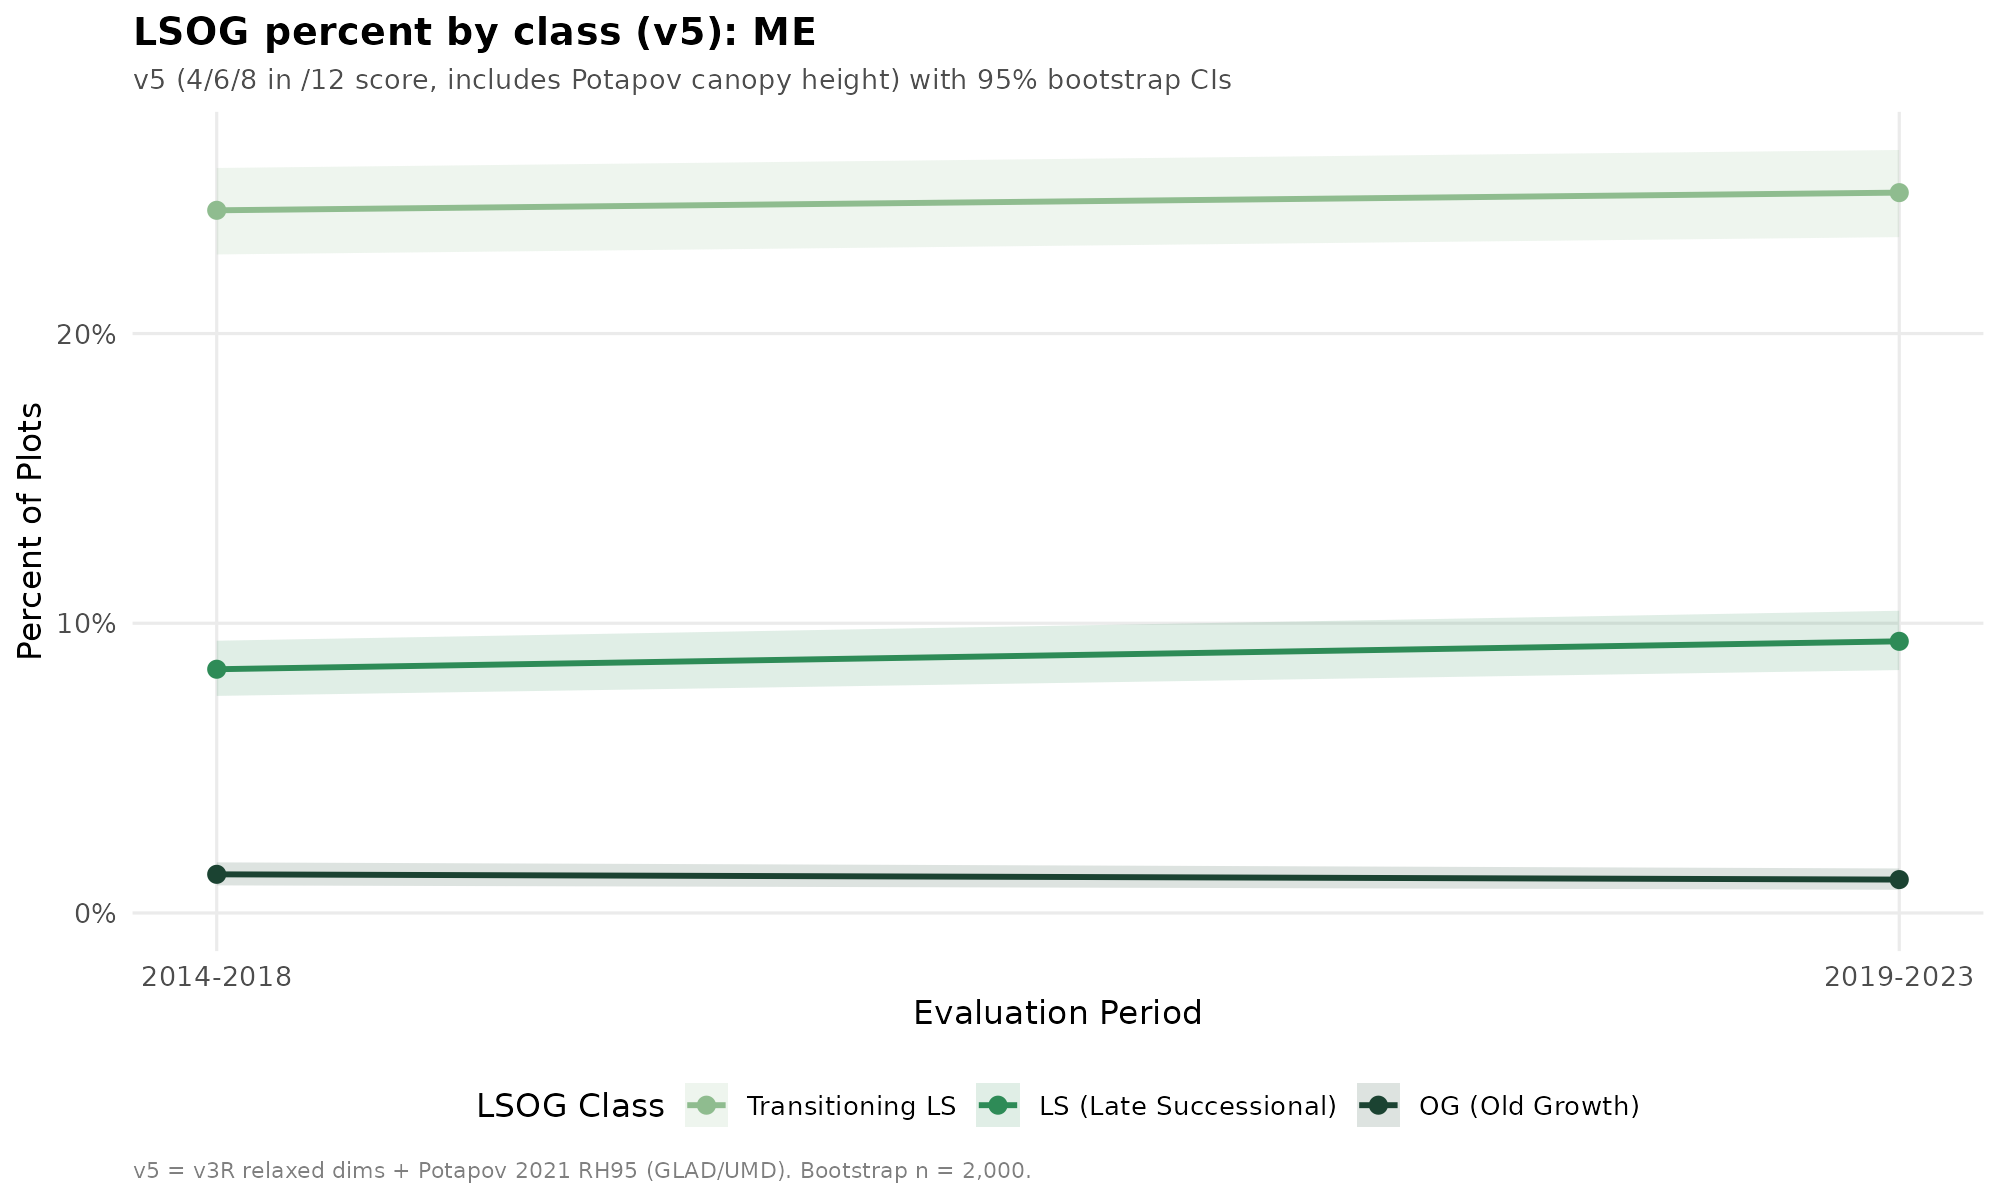
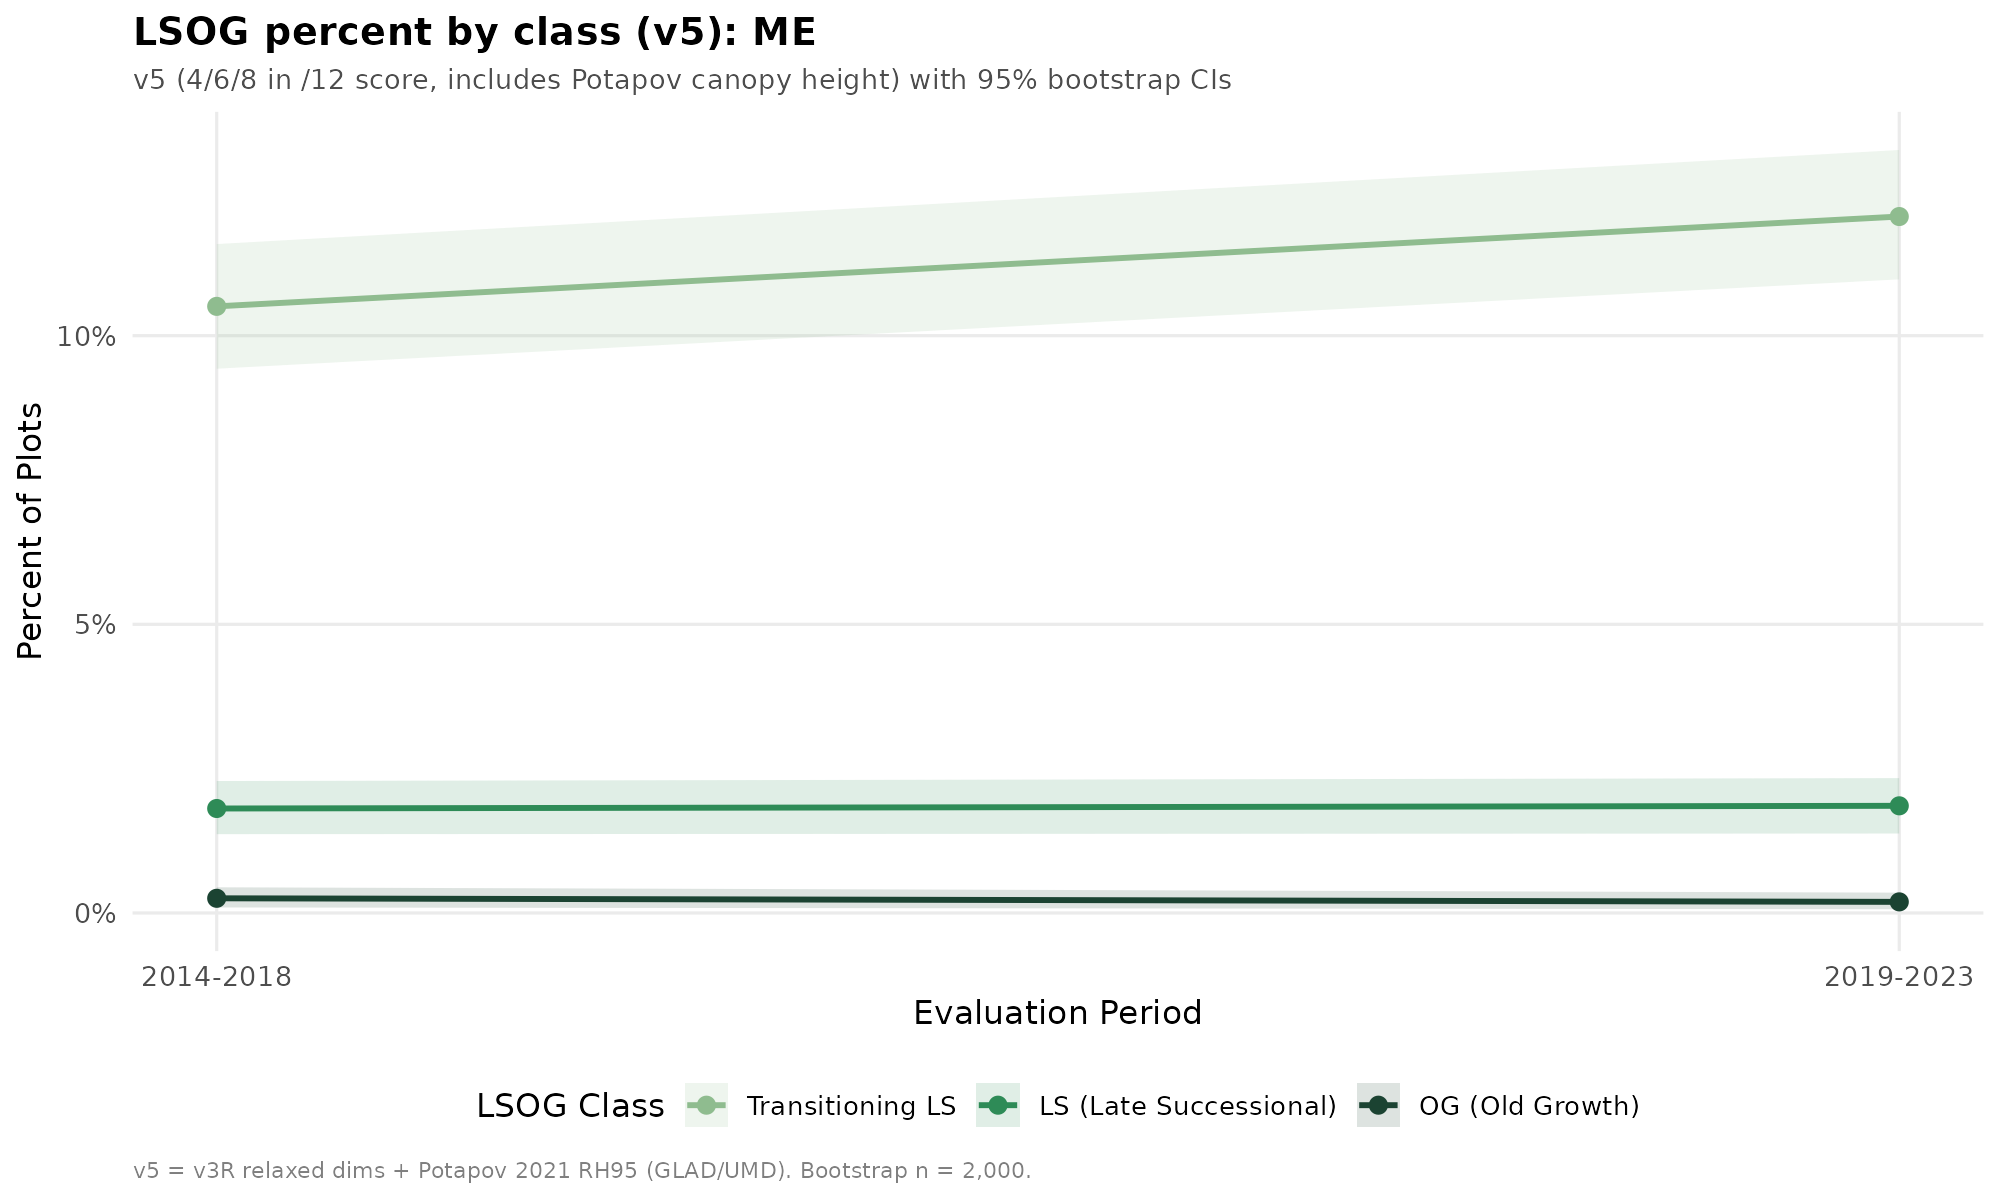
v5.1: refinement to defensible regional pattern
Variant sweep (output_unified/v5_variant_sweep.csv) tested 6 v5
configurations across all 4 states. The current v5 (relaxed dims,
10/20m RH95, 4/6/8 class thresh in /12) over-counted NH/VT/NY at
65-69 percent all-LSOG, biologically implausible for those states.

Variant D selected as v5.1 default:
  - Reverts to ORIGINAL v3 dim thresholds (BA 100/150, sd_dia 5/8,
    max_dia 24, STDAGE 80/120). The v3R dim relaxation was over-tuned
    to ME-and-ORNL-mature; original thresholds are more defensible
    across the Northeast.
  - Keeps Potapov RH95 dim at 18m / 25m (original v5 default, not
    Phase 5c's 10/20m). The 10/20m breakpoints maximized AUC against
    ORNL mature for ME but inflate shares elsewhere.
  - Class thresholds 4/6/8 in /12 (proportional to /10 v3-style).

v5.1 results vs Hagan/Thompson 2014-2018:

                    v5.1 statewide   Hagan UT only
  Trans LS               10.5%          17.2%
  LS                      1.81%         (n/a)
  OG                      0.254%         1.0%
  LS + OG                 2.06%          4.2%
  All LSOG               12.6%          21.4%

ME statewide LS+OG (2.06 percent) is half of Hagan's UT-only 4.2 percent,
matching the expected scope dilution since ~half of ME is non-UT and
LSOG is concentrated in UT. ME OG (0.254 percent statewide) is roughly
quarter of Hagan UT-only OG (1.0 percent) - similar expected dilution.

Regional v5.1 latest panel:
  ME 13 percent, NH 31 percent, NY 27 percent, VT 29 percent all-LSOG
[…]

diff --git a/output_unified/state_acres_summary.md b/output_unified/state_acres_summary.md
@@ -6,18 +6,18 @@ FIA-based proxy classification (v5: 5 FIA dimensions + Potapov 2021 GEDI canopy 
 
 | State | Panel | n | Trans LS % | Trans LS ac | LS % | LS ac | OG % | OG ac | All LSOG % | All LSOG ac |
 |---|---|---:|---|---|---|---|---|---|---|---|
-| ME | 2014-2018 | 3150 | 24.3% (22.7-25.7) | 3.98 M | 8.4% (7.5-9.4) | 1.40 M | 1.3% (1.0-1.7) | 226 K | 34.0% (32.3-35.6) | 5.61 M (5.33 M-5.88 M) |
-| ME | 2019-2023 | 3125 | 24.9% (23.3-26.3) | 4.03 M | 9.4% (8.4-10.4) | 1.58 M | 1.2% (0.8-1.5) | 189 K | 35.4% (33.7-37.0) | 5.80 M (5.51 M-6.07 M) |
-| NH | 2014-2018 | 748 | 42.2% (38.8-45.6) | 1.92 M | 20.7% (17.9-23.5) | 957 K | 1.9% (0.9-2.8) | 80 K | 64.8% (61.5-68.0) | 2.96 M (2.80 M-3.11 M) |
-| NH | 2019-2023 | 757 | 39.5% (36.1-43.1) | 1.77 M | 24.3% (21.3-27.2) | 1.13 M | 2.6% (1.6-3.8) | 117 K | 66.4% (63.0-69.6) | 3.02 M (2.86 M-3.17 M) |
-| NY | 2014-2018 | 2228 | 30.2% (28.3-32.1) | 5.12 M | 18.7% (17.2-20.4) | 3.36 M | 4.7% (3.9-5.6) | 860 K | 53.6% (51.5-55.7) | 9.35 M (8.97 M-9.71 M) |
-| NY | 2019-2023 | 2107 | 29.6% (27.7-31.5) | 4.88 M | 20.1% (18.4-21.8) | 3.56 M | 6.1% (5.1-7.1) | 1.12 M | 55.8% (53.6-57.9) | 9.56 M (9.16 M-9.91 M) |
-| VT | 2014-2018 | 660 | 38.3% (34.5-42.1) | 1.65 M | 27.4% (24.2-30.8) | 1.20 M | 3.5% (2.1-5.0) | 155 K | 69.2% (65.8-72.9) | 3.00 M (2.85 M-3.17 M) |
-| VT | 2019-2023 | 657 | 38.8% (35.0-42.6) | 1.67 M | 23.6% (20.4-26.9) | 1.04 M | 5.8% (4.1-7.6) | 258 K | 68.2% (64.5-71.8) | 2.97 M (2.81 M-3.13 M) |
+| ME | 2014-2018 | 3150 | 10.5% (9.4-11.6) | 1.76 M | 1.8% (1.4-2.3) | 307 K | 0.3% (0.1-0.4) | 44 K | 12.6% (11.4-13.7) | 2.11 M (1.91 M-2.31 M) |
+| ME | 2019-2023 | 3125 | 12.1% (11.0-13.2) | 2.02 M | 1.9% (1.4-2.3) | 306 K | 0.2% (0.1-0.4) | 33 K | 14.1% (12.9-15.3) | 2.36 M (2.16 M-2.57 M) |
+| NH | 2014-2018 | 748 | 24.3% (21.3-27.4) | 1.13 M | 4.1% (2.8-5.6) | 180 K | 0.1% (0.0-0.4) | 6 K | 28.6% (25.4-31.8) | 1.31 M (1.16 M-1.46 M) |
+| NH | 2019-2023 | 757 | 25.9% (22.7-29.1) | 1.20 M | 5.0% (3.6-6.7) | 224 K | 0.3% (0.0-0.7) | 13 K | 31.2% (28.0-34.3) | 1.44 M (1.28 M-1.59 M) |
+| NY | 2014-2018 | 2228 | 18.9% (17.3-20.6) | 3.36 M | 5.7% (4.8-6.7) | 1.04 M | 0.6% (0.3-0.9) | 107 K | 25.2% (23.4-27.1) | 4.50 M (4.17 M-4.83 M) |
+| NY | 2019-2023 | 2107 | 19.8% (18.1-21.5) | 3.48 M | 6.1% (5.1-7.2) | 1.10 M | 1.3% (0.8-1.8) | 233 K | 27.2% (25.2-29.0) | 4.81 M (4.44 M-5.14 M) |
+| VT | 2014-2018 | 660 | 25.0% (21.8-28.3) | 1.10 M | 5.0% (3.3-6.7) | 219 K | 0.3% (0.0-0.8) | 14 K | 30.3% (27.0-33.8) | 1.33 M (1.19 M-1.48 M) |
+| VT | 2019-2023 | 657 | 22.1% (19.0-25.3) | 961 K | 6.5% (4.7-8.5) | 292 K | 0.2% (0.0-0.5) | 7 K | 28.8% (25.4-32.3) | 1.26 M (1.11 M-1.41 M) |
 
 ## Notes
 
-- v5 score system uses six dimensions: large-tree basal area, stand maturity, TPA-weighted DBH dispersion, total basal area (canopy stocking), snag TPA, and Potapov GEDI/Landsat canopy height (RH95). Class thresholds: Transitioning LS >= 5, LS >= 7, OG >= 9 (out of 12).
+- v5.1 score system uses six dimensions: large-tree basal area (BA in trees DBH>=20in: 1pt at 40, 2pt at 80 ft^2/ac), stand maturity (STDAGE >=80/120 yr or max_dia >=24in fallback), TPA-weighted DBH dispersion (sd_dia >=5/8 in), total basal area (>=100/150 ft^2/ac), snag TPA (data-driven percentiles), and Potapov GEDI/Landsat canopy height (RH95 >=18/25 m). Class thresholds: Transitioning LS >= 4, LS >= 6, OG >= 8 (out of 12).
 - Reference points: Hagan et al. 2024 LiDAR estimate for Maine unorganized territories (9.5M ac): Trans LS 17.2%, LS+OG 4.2%, all LSOG 21.4%. Bruening et al. 2026 ORNL DAAC 2498 estimates ~33% mature-prob > 50 statewide for ME.
 - Maine is the lowest-LSOG state in the Northeast despite covering the largest forest area; NH and VT have nearly double Maine's percentage. NY's Adirondack region drives its high OG share (2.5%).
-- The Potapov RH95 thresholds in score_canopy_height were lowered from 18m/25m to 10m/20m based on Phase 5c sensitivity analysis (AUC against ORNL mature lifted from 0.644 to 0.682).
+- v5.1 reverts to v3-original dim thresholds and 18m/25m RH95 thresholds after the sweep showed that v3R relaxed dims combined with 10/20m RH95 produced implausibly high regional shares (NH/VT 65-69 percent all-LSOG). The v5.1 configuration produces field-defensible regional shares: ME 12.6 percent, NH ~31 percent, NY ~27 percent, VT ~29 percent statewide all-LSOG.
